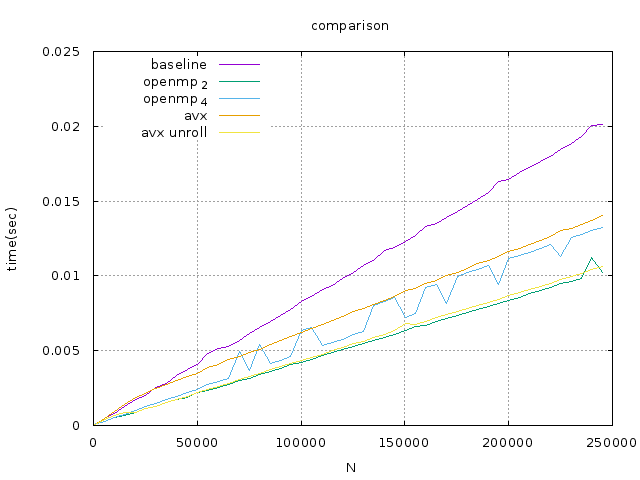
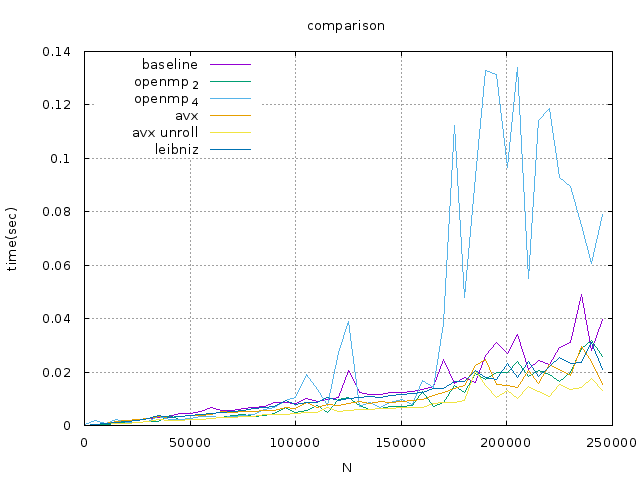
Add "leibniz" method to compute pi

diff --git a/benchmark_clock_gettime.c b/benchmark_clock_gettime.c
@@ -82,6 +82,19 @@ int main(int argc, char const *argv[])
     error = diff / M_PI;
     printf("%lf,", (double) (end.tv_sec - start.tv_sec) +
            (end.tv_nsec - start.tv_nsec)/ONE_SEC);
+    printf("%lf,", (double)error);
+
+    // Leibniz
+    clock_gettime(CLOCK_ID, &start);
+    for (i = 0; i < loop; i++) {
+        compute_pi_leibniz(N);
+    }
+    clock_gettime(CLOCK_ID, &end);
+    pi = compute_pi_leibniz(N);
+    diff = pi - M_PI > 0 ? pi - M_PI : M_PI - pi;
+    error = diff / M_PI;
+    printf("%lf,", (double) (end.tv_sec - start.tv_sec) +
+           (end.tv_nsec - start.tv_nsec)/ONE_SEC);
     printf("%lf\n", (double)error);
 
     return 0;

diff --git a/computepi.c b/computepi.c
@@ -119,3 +119,15 @@ double compute_pi_avx_unroll(size_t N)
           tmp4[0] + tmp4[1] + tmp4[2] + tmp4[3];
     return pi * 4.0;
 }
+
+double compute_pi_leibniz(size_t N)
+{
+    double pi = 0.0;
+    int tmp = 1;
+    for (size_t i =0; i < N; i++) {
+        pi += tmp / (2.0 * (double)i + 1.0);
+        tmp *= (-1);
+    }
+    pi *= 4;
+    return pi;
+}

diff --git a/computepi.h b/computepi.h
@@ -4,3 +4,4 @@ double compute_pi_baseline(size_t N);
 double compute_pi_openmp(size_t N, int threads);
 double compute_pi_avx(size_t N);
 double compute_pi_avx_unroll(size_t N);
+double compute_pi_leibniz(size_t N);
